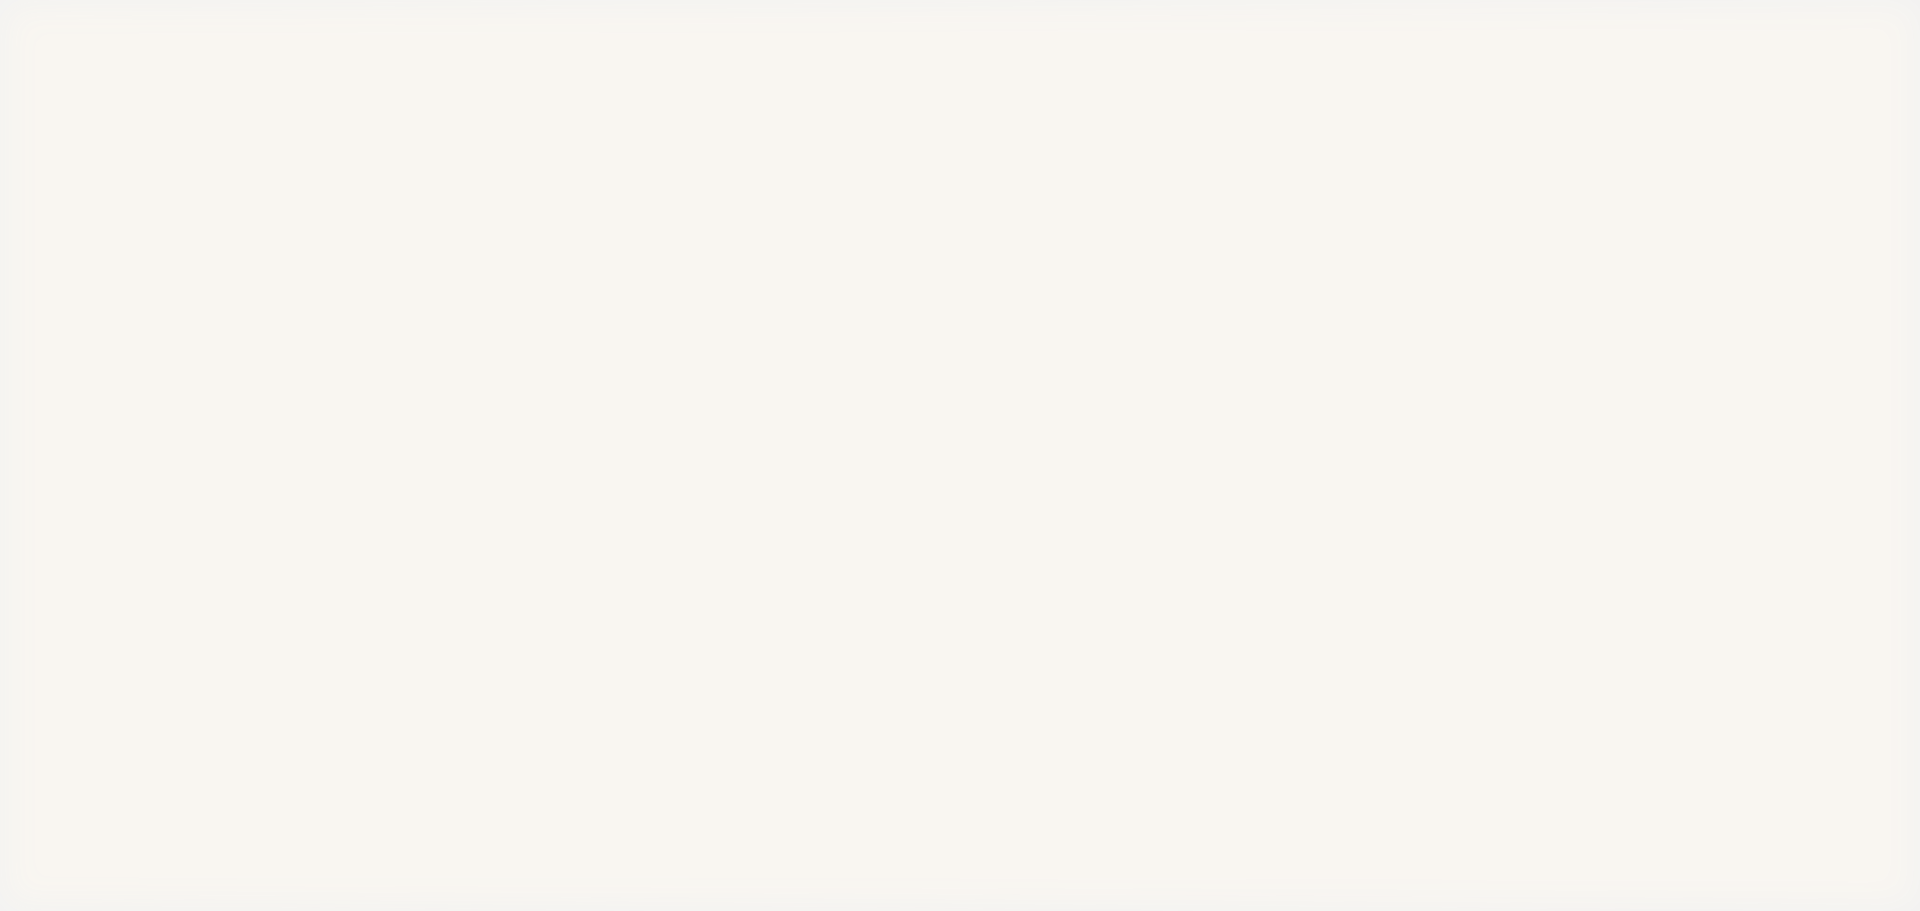
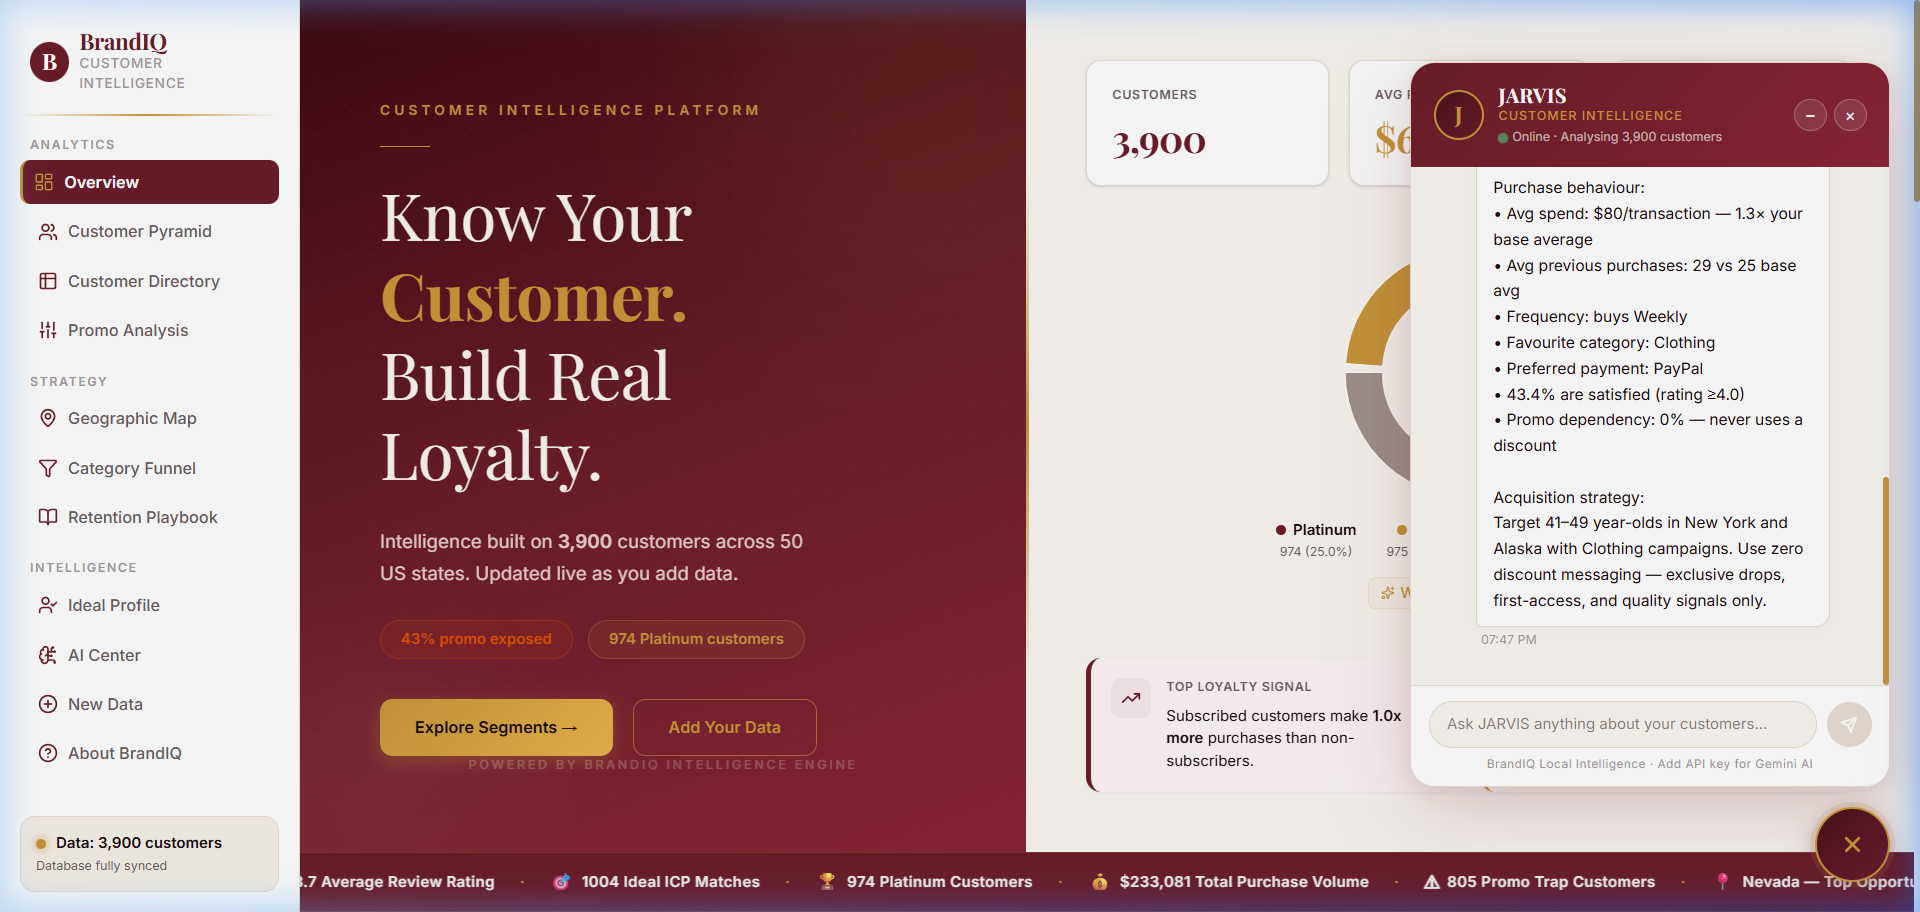
Updated README with complete BrandIQ visual gallery and fixed blank dashboard screenshot

diff --git a/README.md b/README.md
@@ -6,9 +6,15 @@
 
 An end-to-end customer intelligence system for a D2C fashion brand — engineering loyalty metrics from scratch, segmenting 3,900 customers via SQL, identifying promo-trap customers, and generating a zero-API AI retention assistant named JARVIS.
 
-### 📊 Platform Showcase
-![BrandIQ Executive Dashboard](public/screenshots/dashboard_overview.png)
+### 📊 Platform Showcase Gallery
 
+| Executive Dashboard Overview | Interactive Customer Value Pyramid |
+| :---: | :---: |
+| ![BrandIQ Executive Dashboard](public/screenshots/dashboard_overview.png) | ![Interactive Customer Value Pyramid](public/screenshots/customer_pyramid.png) |
+
+| Promotional Dependency Diagnostics | JARVIS Offline AI Chatbot |
+| :---: | :---: |
+| ![Promotional Dependency Diagnostics](public/screenshots/promo_analysis.png) | ![JARVIS AI Chatbot in Action](public/screenshots/jarvis_chat_in_action.png) |
 
 ---
 